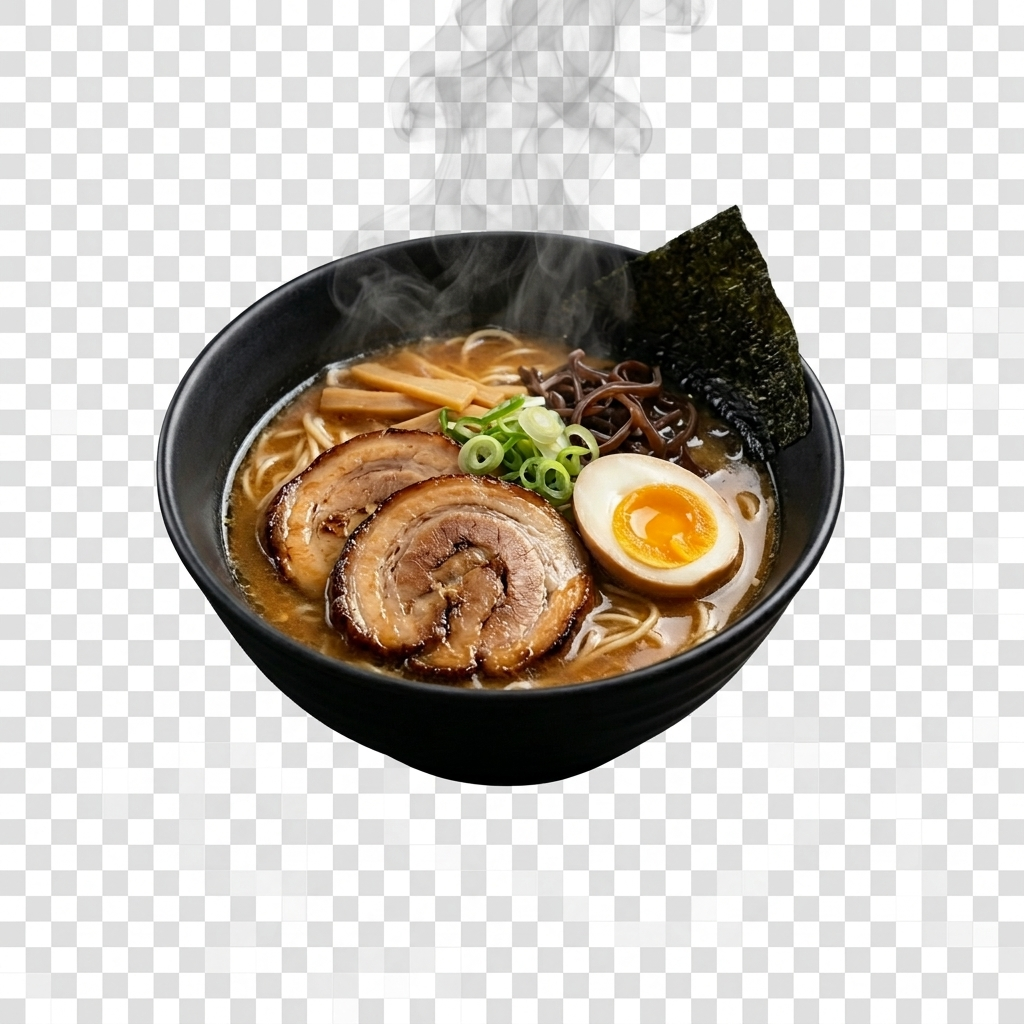
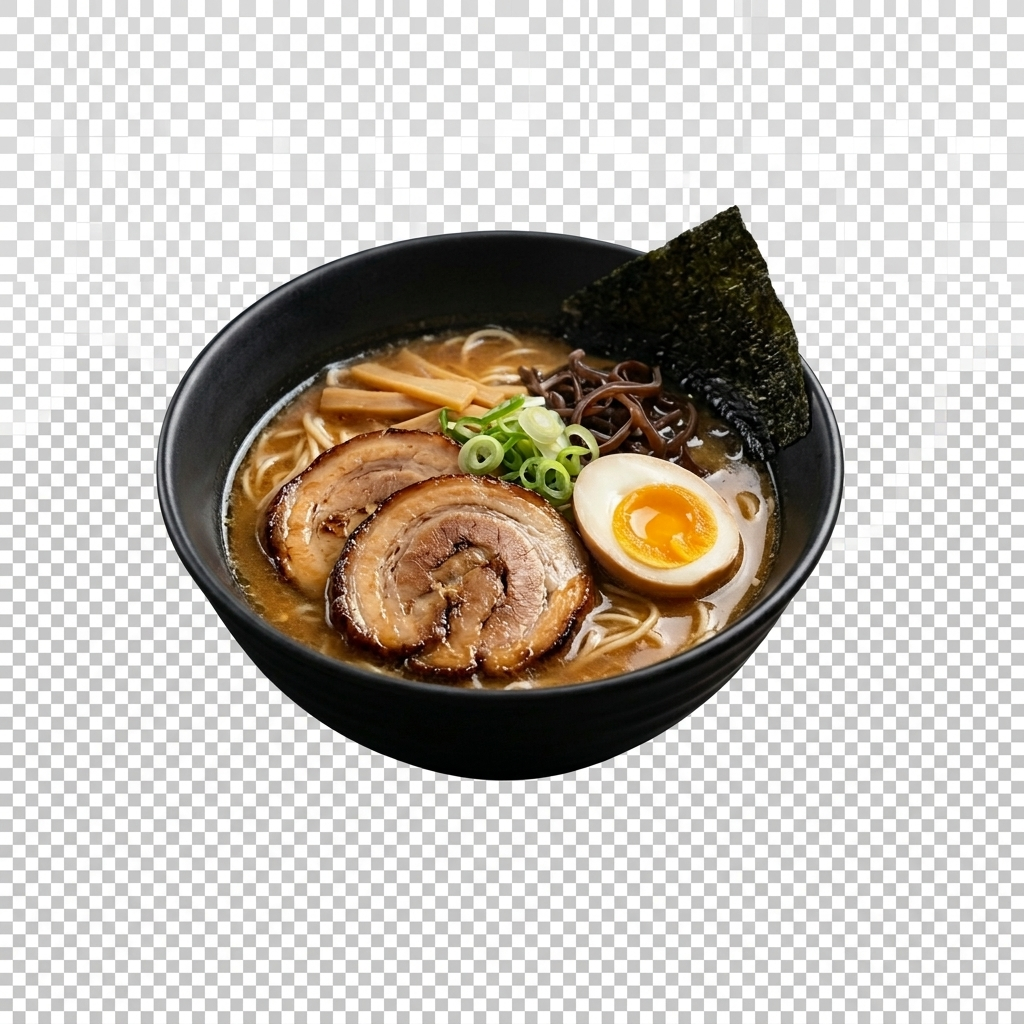
fin seccion hero pricipal

diff --git a/src/features/home/components/Hero.tsx b/src/features/home/components/Hero.tsx
@@ -3,37 +3,36 @@ import { ChefHat, Leaf, UtensilsCrossed } from "lucide-react";
 
 export function Hero() {
   return (
-    <section className="relative w-full max-w-[1600px] mx-auto min-h-screen flex flex-col justify-between items-center px-4 md:px-8 lg:px-[150px] pt-32 pb-16">
-      
+    <section className="relative w-full max-w-[1600px] mx-auto min-h-screen flex flex-col justify-between items-center px-4 md:px-8 lg:px-[150px] pt-15 pb-16">
+
       {/* --- BACKGROUND DECORATION (Realistic bottom-left corner leaf decoration) --- */}
       <div className="absolute left-0 top-100 w-[280px] h-[420px] opacity-35 pointer-events-none z-0 select-none">
-        <Image 
-          src="/images/img1.png" 
-          alt="Bamboo Leaves Left" 
-          fill 
-          className="object-contain object-bottom-left scale-x-[-1]" 
+        <Image
+          src="/images/plantas-decorativas.png"
+          alt="Bamboo Leaves Left"
+          fill
+          className="object-contain object-bottom-left scale-x-[-1]"
         />
       </div>
 
       {/* --- BACKGROUND DECORATION (Realistic top-right corner leaf decoration) --- */}
       <div className="absolute right-0 top-36 w-[240px] h-[360px] opacity-30 pointer-events-none z-0 select-none">
-        <Image 
-          src="/images/img1.png" 
-          alt="Bamboo Leaves Right" 
-          fill 
-          className="object-contain object-top-right rotate-[360deg]" 
+        <Image
+          src="/images/plantas-decorativas.png"
+          alt="Bamboo Leaves Right"
+          fill
+          className="object-contain object-top-right rotate-[360deg]"
         />
       </div>
 
       {/* --- MAIN CENTERED CONTENT (Text, Button, and Image stacked vertically) --- */}
       <div className="relative z-30 w-full flex flex-col items-center text-center ">
         {/* Main Title */}
-        <h1 className="text-4xl sm:text-5xl md:text-6xl lg:text-[64px] font-normal lg:leading-[80px] font-serif text-white max-w-[800px]">
+        <h1 className="text-4xl sm:text-5xl md:text-6xl lg:text-[64px] font-normal lg:leading-[80px] font-serif text-white max-w-[2000px]">
           Delicious food &<br />
-          wonderful eating<br />
-          experience
+          wonderful eating experience
         </h1>
-        
+
         {/* Description */}
         <p className="mt-6 text-base sm:text-lg lg:text-[20px] text-white/60 max-w-[500px] leading-[28px] font-sans">
           We serve food, harmony, & laughter since 1998
@@ -45,44 +44,15 @@ export function Hero() {
         </button>
 
         {/* Featured Image - Stacks vertically underneath the button */}
-        <div className="relative w-full max-w-[550px] aspect-[4/5] sm:aspect-square md:aspect-[4/3] mt-12 rounded-lg overflow-hidden shadow-2xl border border-white/10 z-20">
-          <Image 
-            src="/images/ramen-bowl.png" 
-            alt="Delicious Ramen Bowl" 
-            fill 
-            className="object-cover" 
+        <div className="relative w-full max-w-[750px] aspect-[4/5] sm:aspect-square md:aspect-[4/3] -mt-12 z-20 drop-shadow-[0_20px_50px_rgba(0,0,0,0.8)]">
+          <Image
+            src="/images/sushi-home.png" 
+            alt="Delicious Ramen Bowl"
+            fill
+            className="object-contain"
             priority
           />
         </div>
-      </div>
-
-      {/* --- BOTTOM BADGES BAR (Flows naturally below the content/image) --- */}
-      <div className="relative z-30 mt-16 w-full flex flex-col sm:flex-row justify-center items-center gap-8 md:gap-16 lg:gap-24">
-        
-        {/* Badge 1 */}
-        <div className="flex items-center gap-4">
-          <div className="text-[#DD5903]">
-            <Leaf size={32} strokeWidth={1.5} />
-          </div>
-          <span className="text-white text-xl lg:text-2xl font-serif">Fresh food/meal</span>
-        </div>
-
-        {/* Badge 2 */}
-        <div className="flex items-center gap-4">
-          <div className="text-[#DD5903]">
-            <UtensilsCrossed size={32} strokeWidth={1.5} />
-          </div>
-          <span className="text-white text-xl lg:text-2xl font-serif">True recipes</span>
-        </div>
-
-        {/* Badge 3 */}
-        <div className="flex items-center gap-4">
-          <div className="text-[#DD5903]">
-            <ChefHat size={32} strokeWidth={1.5} />
-          </div>
-          <span className="text-white text-xl lg:text-2xl font-serif">Top class chef's</span>
-        </div>
-
       </div>
     </section>
   );